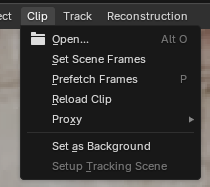
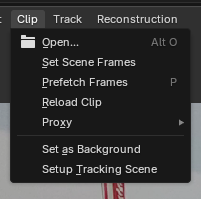
Added search area

diff --git a/README.md b/README.md
@@ -66,6 +66,25 @@ Blender camera tracking: placing 3D objects into real-world footage and fixing m
 
 **Goal:** Give Blender points to follow throughout the footage.
 
+### Choose a motion model first
+
+Before you add markers, open the **Tracking Settings** panel in the Movie Clip Editor's toolbar (`T`) and pick a **Motion Model**. New markers use this setting, and it tells Blender how a feature is allowed to change from frame to frame.
+
+![Selecting the motion model for tracking](images/motion_tracking/motion_model.png)
+
+| Motion model | Use when |
+|---|---|
+| **Loc** | The feature only moves across the frame. This is the simplest and most stable option. |
+| **LocScale** | The camera moves towards or away from the feature, so it grows or shrinks. |
+| **LocRot** | The feature rotates in the frame, for example when the camera rolls. |
+| **LocRotScale** | The feature moves, rotates and changes size. |
+| **Affine** | The feature also skews as the viewing angle changes. |
+| **Perspective** | The feature sits on a flat surface seen at a changing angle, such as the floor. This is the most flexible option and the most likely to drift. |
+
+> 💡 **Tip:** Start with **Loc** or **LocScale**. Only move to a more complex model if markers slip because the feature changes shape. More freedom means more ways for a track to wander.
+
+### Place the markers
+
 1. Find clearly visible details in your footage.
 2. Place your mouse over a feature.
 3. Press `Ctrl + Left Click` to add a tracking marker.
@@ -109,12 +128,78 @@ Blender camera tracking: placing 3D objects into real-world footage and fixing m
 
 <!-- IMAGE: images/motion_tracking/tracking_markers.png -->
 
+### Tracking forwards and backwards
+
+A marker only gets tracked from the frame where you placed it, in the direction you choose. A marker placed halfway through the clip and tracked only forwards has **no data for the first half**.
+
+- **Track forwards** (`Ctrl + T`) follows the feature from the current frame towards the end of the clip.
+- **Track backwards** (`Ctrl + Shift + T`) follows it from the current frame towards the start.
+- For a feature that is visible across the whole clip, place the marker on a frame in the **middle** of the clip where the feature is sharp. Track forwards, return to that frame, then track backwards.
+- For a feature that only appears partway through (it comes into view or is uncovered), place the marker on the first clear frame and track forwards. For one that leaves the frame, place it on the last clear frame and track backwards.
+- If a track fails, step **one frame at a time** with `Alt + Right Arrow` / `Alt + Left Arrow`. Watch the marker, nudge it back onto the feature with `G` when it slips, then carry on.
+
+> 💡 **Tip:** Tracking stops automatically when Blender loses the feature, and the marker is disabled from that frame on. That's the frame to inspect.
+
+### Locking a tracker
+
+Once a track is finished and you're happy with it, **lock it** so you can't accidentally move or retrack it while you work on other markers.
+
+| Shortcut | Action |
+|---|---|
+| `Ctrl + L` | Lock selected tracks |
+| `Ctrl + Alt + L` | Unlock selected tracks |
+
+You can also toggle the padlock icon in the **Track** panel of the sidebar (`N`). Locked tracks still take part in the camera solve. They just can't be edited.
+
+> ⚠ **Note:** Don't confuse this with **Lock to Selection** (`L`) in the editor header. That option keeps the view centred on the selected marker during playback, which is very handy for inspecting a track, but it doesn't protect the track.
+
+### Showing the search area (`Alt + S`)
+
+Each marker has two boxes:
+
+- **Pattern area** (the inner box): the patch of image Blender looks for.
+- **Search area** (the outer box): how far Blender is allowed to look for that patch in the next frame.
+
+The search area is hidden by default. Press `Alt + S` to toggle it on and off. It's also under **Clip Display → Marker Display → Search** in the editor header.
+
+![The pattern area and search area of a selected marker](images/motion_tracking/search_area.png)
+
+In this screenshot:
+
+- The **small inner box** is the pattern area, placed on a distinctive detail.
+- The **large outer box** is the search area. Drag its corner handle to resize it, or drag its top-left square to move it.
+- The **yellow box** on the right is another marker that isn't selected, so only its pattern area is shown.
+
+Once it's visible you can drag its corners to resize it. This matters because:
+
+- If the feature moves **further between frames than the search area allows** (fast camera moves, whip pans, low frame rates), the track will jump or fail. Make the search area bigger.
+- If the search area is **too big**, Blender may lock onto a similar-looking feature nearby, and tracking slows down. Keep it only as big as the motion needs.
+
+### More tips for good tracks
+
+- **Pattern size:** Make the pattern area big enough to hold a distinctive, high-contrast detail, such as a corner rather than a flat wall. Too small and it's easy to confuse with something else. Too big and it may include parts of the image that move differently.
+- **Prefer corners to edges:** A marker on a straight edge can slide along that edge without Blender noticing. Corners and "X" or "L" shaped details pin the marker in both directions.
+- **Avoid reflections, shadows and anything that changes:** Reflections in glass, moving shadows, flickering lights and water all move independently of the camera.
+- **Watch the edges of the frame:** Features near the image edges are more affected by lens distortion and leave the frame first. Use them, but check them carefully.
+- **Use Lock to Selection while inspecting:** Press `L`, then play the clip. If the feature wobbles in the centre of the view, the track is drifting.
+- **Matching setting:** In **Tracking Settings**, **Keyframe** matching compares each frame to the frame where the marker was placed. This is more stable and resists drift. **Previous Frame** compares to the frame before, which handles features that slowly change appearance but can drift over long shots.
+- **Normalize:** Enable **Normalize** in Tracking Settings when the lighting changes during the shot, such as clouds passing or auto-exposure.
+- **Hide finished tracks:** Press `H` to hide selected tracks and `Alt + H` to show them all again. This keeps the view uncluttered while you work on new ones.
+
 ### Keyboard shortcuts
 
 | Shortcut | Action |
 |---|---|
-| `Ctrl + T` | Track forwards |
-| `Ctrl + Shift + T` | Track backwards |
+| `Ctrl + T` | Track forwards (to the end) |
+| `Ctrl + Shift + T` | Track backwards (to the start) |
+| `Alt + Right Arrow` | Track forwards one frame |
+| `Alt + Left Arrow` | Track backwards one frame |
+| `Ctrl + L` | Lock selected tracks |
+| `Ctrl + Alt + L` | Unlock selected tracks |
+| `Alt + S` | Show / hide the search area |
+| `L` | Lock view to selection |
+| `G` | Move marker (to correct a slip) |
+| `H` / `Alt + H` | Hide selected tracks / show all |
 
 > ⚠ **Important:** Don't assume a track is good just because Blender successfully tracked it. Make sure it stays attached to its original feature.
 
@@ -324,7 +409,7 @@ An incorrectly reconstructed depth can make your mesh appear to slide as the cam
 
 - Adjust tracking weights where appropriate.
 - Remove unreliable tracking markers.
-- Check the tracking motion model.
+- Check the tracking motion model (see [Step 2](#choose-a-motion-model-first)).
 - Investigate camera distortion.
 - Check your reconstructed floor and scene scale.
 
